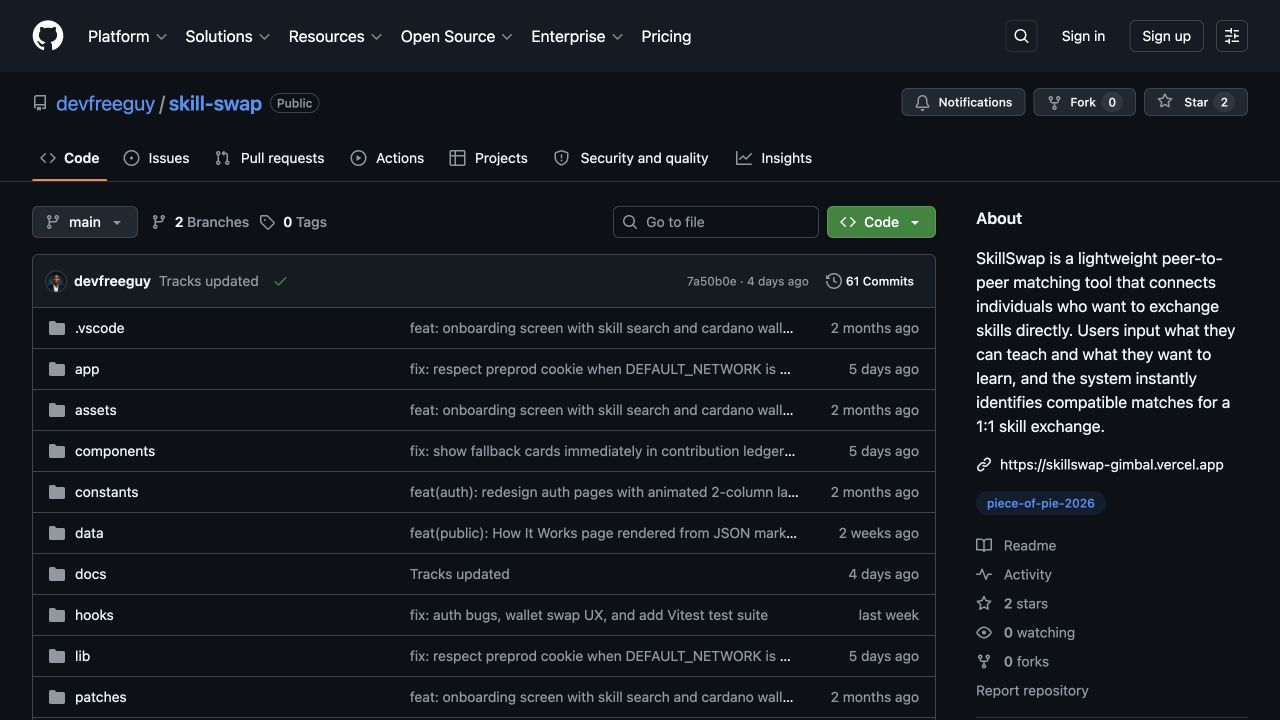
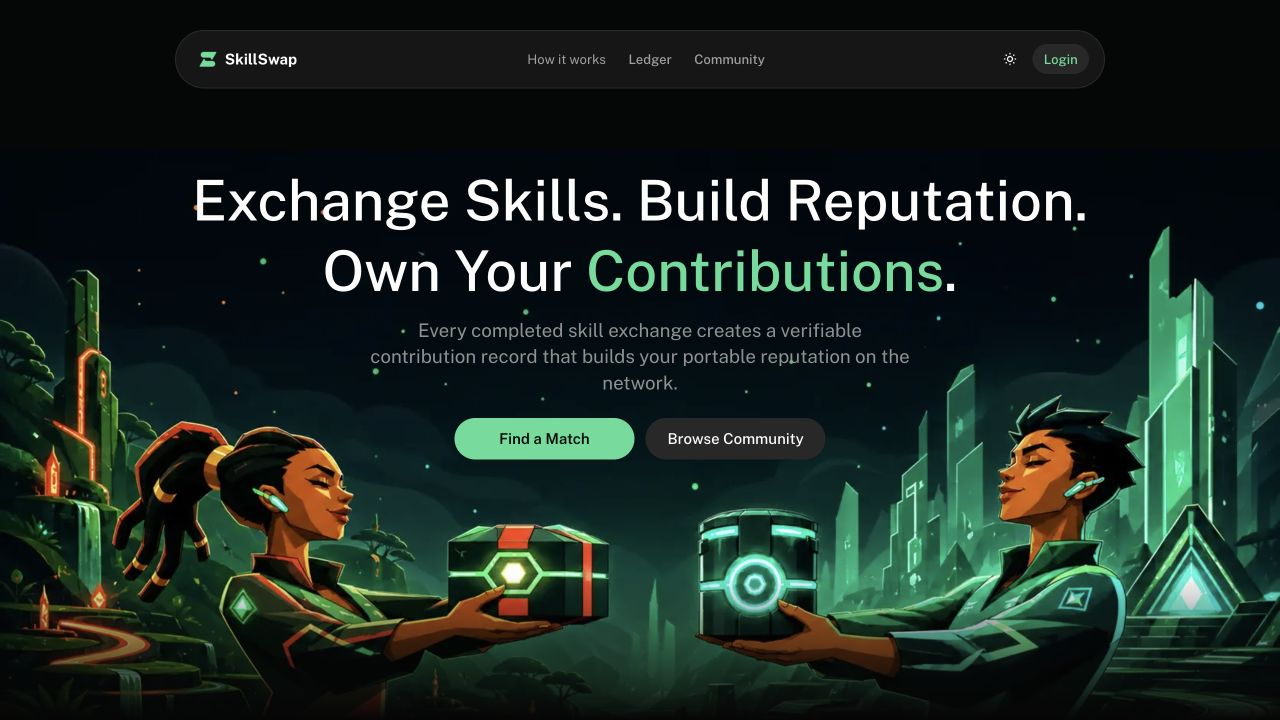
Update SkillSwap product link and screenshot

diff --git a/src/data/piece-of-pie-yearbook.ts b/src/data/piece-of-pie-yearbook.ts
@@ -232,7 +232,7 @@ const projectData: Project[] = [
     tags: ["Skill exchange", "Learning", "Reputation"],
     builtOnCardano: true,
     repoUrl: "https://github.com/devfreeguy/skill-swap",
-    appUrl: "https://myskillswap.xyz/",
+    appUrl: "https://skillswap-gimbal.vercel.app/",
     profileUrl: "https://x.com/devfreeguy",
     submissionUrl:
       "https://github.com/devfreeguy/skill-swap/blob/main/docs/final-presentation.md",
